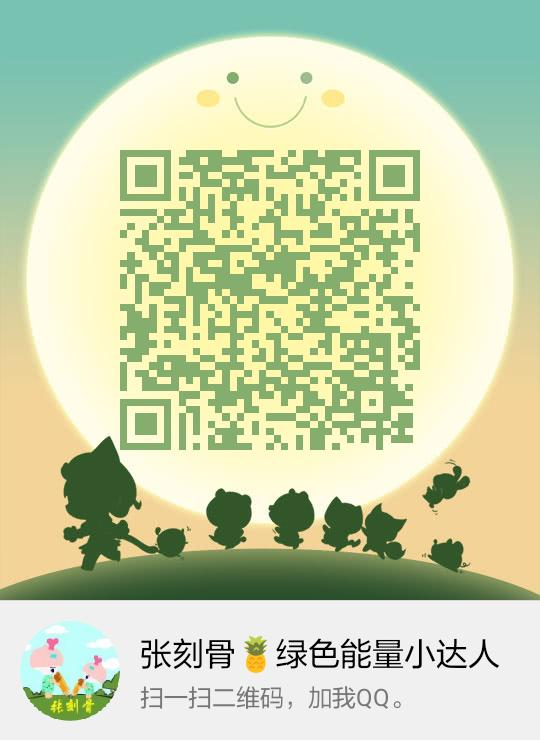
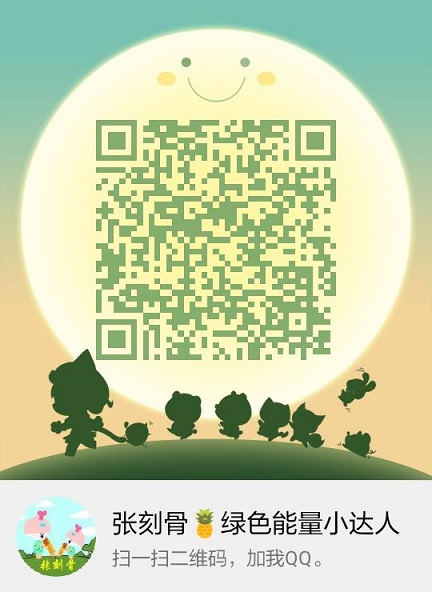
update

diff --git a/index.html b/index.html
@@ -26,13 +26,16 @@
 
 					</ul>
 					<div class="about">
-						我是一个性格幽默、做事认真，热爱运动的人。
-						我喜欢研究所碰到的各种技术，热衷解决碰到的任何程序问题，不给自己设边界，有 Geek 精神。我有时间概念，能在约定时间内保证完成任务。
-						<br>
-						我正在寻找一家公司希望加入一个以技术为驱动，从事前端开发工作，并且可以提升大型项目的驾驭能力，希望新工作有成长空间，技术上有挑战性，技术氛围够Geek，使人有成就感的互联网公司。
+						<section>
+							<h2>校内实践：校招生就业服务中心</h2>
+							<p>于学校招生就业处任职领导助理兼外联部干事，协助领导完成数场校招聘会，并多次参与大型双选会策划与举办，充分担当了学校与企业之间的沟通桥梁</p>
+							<h2>实习平面设计师助理</h2>
+							<p>在理念设计工作室兼职平面设计师，负责设计名片，三折页，宣传册，海报及小画册等工作</p>
+							<h2>自我鉴赏</h2>
+								正如兴趣是最好的老师，喜欢前端是我最大的优势: 我可以在不断地调试中不停的欣赏到新的界面; 这样不问断的小成就给了我追求更完美的动力, 编程控制出的不同新界面带给我的视觉冲击极大地满足了不懂艺术的我对绘画和色彩固执的喜爱; 这让我觉得神秘又专业的编码工作愈发的可爱了，这就是我对前端工程师这个职业情有独钟的缘由。
+							</p>
+						</section>
 					</div>
-
-
 				</div>
 			</div>
 		</div>
@@ -50,18 +53,12 @@
 			</div>
 			<footer>
 				<ul class="nav">
-					<li><a href="https://Zhangkegu.github.io/Resume/index.html" class="selected">个人</a></li>
+					<li><a href="https://Zhangkegu.github.io/Resume/index.html" class="selected">首页</a></li>
 					<li><a href="https://Zhangkegu.github.io/Resume/work.html">作品</a></li>
 					<li><a href="https://Zhangkegu.github.io/Resume/skill.html">技能</a></li>
 					<li><a href="https://Zhangkegu.github.io/Resume/contect.html">联系</a></li>
 				</ul>
 				<div id="footer">
-					<div class="logo">
-						<a href="mailto:2419484608@qq.com" target="_blank"></a>
-						<a href="http://www.jianshu.com/users/0ec02b597a36/latest_articles" target="_blank" class="r-shu r-icon"></a>
-						<a href="https://github.com/Zhangkegu" target="_blank" class="r-github r-icon"></a>
-						<a href="" target="_blank" ></a>
-					</div>
 					<p class="source">
 					Open source:<a href="https://github.com/Zhangkegu/Garbage" target="_blank">GitHub</a>
 					<br>

diff --git a/contect.html b/contect.html
@@ -7,7 +7,7 @@
 	<link rel="stylesheet" href="stylesheets/Zhangkegu.css">
 	<link rel="stylesheet" href="stylesheets/contect.css">
 	<link rel="stylesheet" href="https://at.alicdn.com/t/font_1468920013_492283.css">
-	<!-- <script src="javascript/jquery.form.min.js"></script> -->
+	<script src="javascript/jquery.form.min.js"></script>
 	<title>张明鑫</title>
 </head>
 <body>
@@ -26,18 +26,13 @@
 			</div>
 			<footer>
 				<ul class="nav">
-					<li><a href="https://Zhangkegu.github.io/Resume/">首页</a></li>
+					<li><a href="https://Zhangkegu.github.io/Resume/index.html">首页</a></li>
 					<li><a href="https://Zhangkegu.github.io/Resume/work.html">作品</a></li>
 					<li><a href="https://Zhangkegu.github.io/Resume/skill.html">技能</a></li>
 					<li><a href="https://Zhangkegu.github.io/Resume/contect.html" class="selected">联系</a></li>
 				</ul>
 				<div id="footer">
-					<div class="logo">
-						<a href="mailto:2419484608@qq.com?subject=Job Opportunity" target="_blank" class="r-youxiang r-icon"></a>
-						<a href="http://www.jianshu.com/users/0ec02b597a36/latest_articles" target="_blank" class="r-shu r-icon"></a>
-						<a href="https://github.com/Zhangkegu" target="_blank" class="r-github r-icon"></a>
-						<a href="" target="_blank" class="r-weibo r-icon"></a>
-					</div>
+
 					<p class="source">
 					Open source:<a href="https://github.com/Zhangkegu/Garbage" target="_blank">GitHub</a>
 					<br>
@@ -50,7 +45,7 @@
 			<div class="maininner">
 				<div class="qr-code clear-fix">
 					<div class="wx">
-						<img src="img/WX-QR.jpg" alt="">
+						<img src="img/WX-QR.jpg" alt="" style="margin-bottom: 20px" >
 						<p>微信二维码</p>
 					</div>
 					<div class="qq">

diff --git a/skill.html b/skill.html
@@ -33,18 +33,12 @@
 			</div>
 			<footer>
 				<ul class="nav">
-					<li><a href="https://Zhangkegu.github.io/Resume/">首页</a></li>
+					<li><a href="https://Zhangkegu.github.io/Resume/index.html">首页</a></li>
 					<li><a href="https://Zhangkegu.github.io/Resume/work.html">作品</a></li>
 					<li><a href="https://Zhangkegu.github.io/Resume/skill.html" class="selected">技能</a></li>
 					<li><a href="https://Zhangkegu.github.io/Resume/contect.html">联系</a></li>
 				</ul>
 				<div id="footer">
-					<div class="logo">
-						<a href="mailto:2419484608@qq.com?subject=Job Opportunity" target="_blank" class="r-youxiang r-icon"></a>
-						<a href="http://www.jianshu.com/users/0ec02b597a36/latest_articles" target="_blank" class="r-shu r-icon"></a>
-						<a href="https://github.com/Zhangkegu" target="_blank" class="r-github r-icon"></a>
-						<a href="" target="_blank" class="r-weibo r-icon"></a>
-					</div>
 					<p class="source">
 					Open source:<a href="https://github.com/Zegendary/Garbage" target="_blank">GitHub</a>
 					<br>

diff --git a/work.html b/work.html
@@ -25,18 +25,12 @@
 			</div>
 			<footer>
 				<ul class="nav">
-					<li><a href="https://Zhangkegu.github.io/Resume/">首页</a></li>
+					<li><a href="https://Zhangkegu.github.io/Resume/index.html">首页</a></li>
 					<li><a href="https://Zhangkegu.github.io/Resume/work.html" class="selected">作品</a></li>
 					<li><a href="https://Zhangkegu.github.io/Resume/skill.html">技能</a></li>
 					<li><a href="https://Zhangkegu.github.io/Resume/contect.html">联系</a></li>
 				</ul>
 				<div id="footer">
-					<div class="logo">
-						<a href="mailto:2419484608@qq.com?subject=Job Opportunity" target="_blank" class="r-youxiang r-icon"></a>
-						<a href="http://www.jianshu.com/users/0ec02b597a36/latest_articles" target="_blank" class="r-shu r-icon"></a>
-						<a href="https://github.com/Zhangkegu" target="_blank" class="r-github r-icon"></a>
-						<a href="" target="_blank" class="r-weibo r-icon"></a>
-					</div>
 					<p class="source">
 					Open source:<a href="https://github.com/Zhangkegu/Garbage" target="_blank">GitHub</a>
 					<br>

diff --git a/stylesheets/resume.css b/stylesheets/resume.css
@@ -1,6 +1,7 @@
 html,body{
     color: plum;
-    overflow: hidden;
+    overflow: auto;
+
 }
 *{
     list-style: none;
@@ -13,6 +14,7 @@ html,body{
     background: url(../img/bg.jpg);
     background-position: center;
     background-size: cover;
+    background-repeat: repeat-y;
 }
 .maininner .information{
     background: rgba(0, 0, 0, 0.5);
